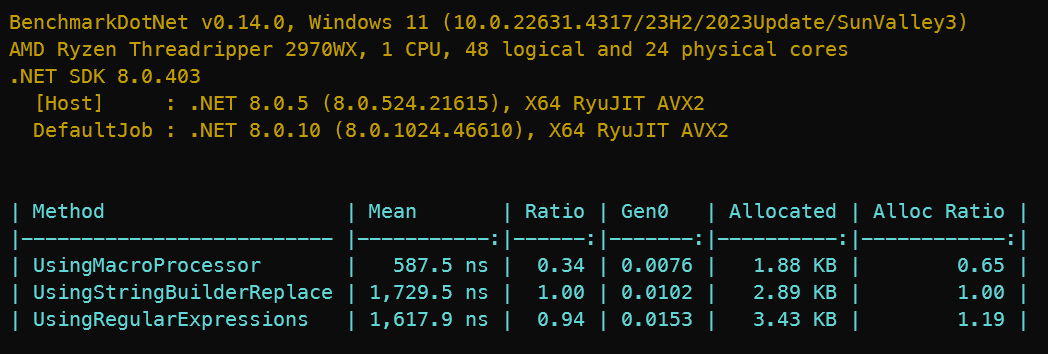
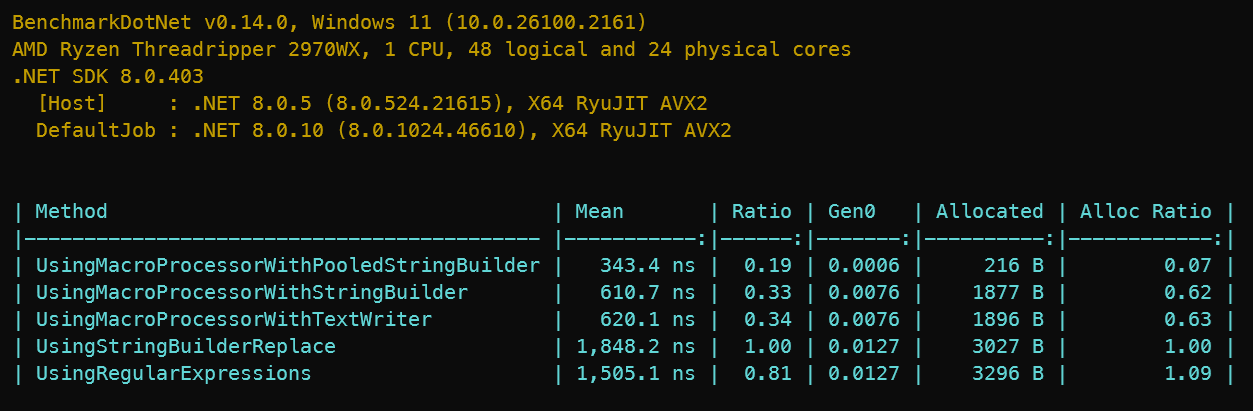
Added MacroProcessor.ProcessMacros overload that takes a StringBuilder
The simplifies usage of pooled StringBuilders for greater performance.

diff --git a/Intercode.Toolbox.TemplateEngine/MacroProcessor.cs b/Intercode.Toolbox.TemplateEngine/MacroProcessor.cs
@@ -5,6 +5,7 @@
 namespace Intercode.Toolbox.TemplateEngine;
 
 using System.Collections.Frozen;
+using System.Text;
 
 /// <summary>
 ///   Processes macros in a template.
@@ -139,6 +140,72 @@ public class MacroProcessor
 
       // The .netstandard2.0 TextWriter.Write method does not have a Span overload.
       writer.Write( segment.Memory.ToString() );
+#endif
+    }
+  }
+
+  /// <summary>
+  ///   Processes macros in a template and writes the result to a <see cref="TextWriter" />.
+  /// </summary>
+  /// <param name="template">The template to process.</param>
+  /// <param name="builder">The <see cref="Stream" /> to write the processed template to.</param>
+  public void ProcessMacros(
+    Template template,
+    StringBuilder builder )
+  {
+    foreach( var segment in template.Segments )
+    {
+      switch( segment.Kind )
+      {
+        case SegmentKind.Macro:
+        {
+          // Unfortunately we cannot use a Span for the macro lookup as Dictionary does not
+          // yet Span lookup support; but .NET 9.0 does.
+          // see https://blog.ndepend.com/alternate-lookup-for-dictionary-and-hashset-in-net-9/
+          var macroName = segment.Text;
+          if( _valueGenerators.TryGetValue( macroName, out var generator ) )
+          {
+            string value;
+
+            try
+            {
+              value = generator( segment.ArgumentMemory.Span );
+            }
+            catch( Exception exception )
+            {
+              value = exception.Message;
+            }
+
+            builder.Append( value );
+          }
+
+          break;
+        }
+
+        case SegmentKind.Delimiter:
+          builder.Append( _options.MacroDelimiter );
+          break;
+
+        case SegmentKind.Constant:
+          WriteConstant( segment );
+          break;
+
+        default:
+          throw new InvalidOperationException( "Unknown segment kind" );
+      }
+    }
+
+    return;
+
+    void WriteConstant(
+      Segment segment )
+    {
+#if NET6_0_OR_GREATER
+      builder.Append( segment.Memory.Span );
+#else
+
+      // The .netstandard2.0 StringBuilder.Append method does not have a Span overload.
+      builder.Append( segment.Memory.ToString() );
 #endif
     }
   }

diff --git a/Intercode.Toolbox.TemplateEngine.Benchmarks/Program.cs b/Intercode.Toolbox.TemplateEngine.Benchmarks/Program.cs
@@ -52,7 +52,29 @@ public partial class MacroProcessingTests
   #region Public Methods
 
   [Benchmark( OperationsPerInvoke = 3 )]
-  public void UsingMacroProcessor()
+  public void UsingMacroProcessorWithPooledStringBuilder()
+  {
+    var builder = StringBuilderPool.Default.Get();
+
+    try
+    {
+      _macroProcessor.ProcessMacros( _template, builder );
+    }
+    finally
+    {
+      StringBuilderPool.Default.Return( builder );
+    }
+  }
+
+  [Benchmark( OperationsPerInvoke = 3 )]
+  public void UsingMacroProcessorWithStringBuilder()
+  {
+    var builder = new StringBuilder();
+    _macroProcessor.ProcessMacros( _template, builder );
+  }
+
+  [Benchmark( OperationsPerInvoke = 3 )]
+  public void UsingMacroProcessorWithTextWriter()
   {
     var writer = new StringWriter();
     _macroProcessor.ProcessMacros( _template, writer );

diff --git a/Intercode.Toolbox.TemplateEngine/README.md b/Intercode.Toolbox.TemplateEngine/README.md
@@ -4,11 +4,17 @@ A fast and simple text templating engine.
 
 ## Updates
 - **Version 2.4** - Added dynamic macro support.
+- **Version 2.4.4** - Added a `MacroProcessor.ProcessMacros` overload that takes a `StringBuilder` instance; the improves performance when using pooled string builders.
 
 ## Table of Contents
 <!--TOC-->
   - [Description](#description)
   - [Processing Macros in Templates: A Quick Guide](#processing-macros-in-templates-a-quick-guide)
+  - [Step-by-Step Guide](#step-by-step-guide)
+    - [1. Create a TemplateCompiler Instance](#1.-create-a-templatecompiler-instance)
+    - [2. Build a MacroProcessor](#2.-build-a-macroprocessor)
+    - [3. Process Macros in the Template](#3.-process-macros-in-the-template)
+  - [Custom Dynamic Macros](#custom-dynamic-macros)
   - [Reference](#reference)
     - [`TemplateEngineOptions` class](#templateengineoptions-class)
       - [Constructor](#constructor)
@@ -24,6 +30,11 @@ A fast and simple text templating engine.
     - [`MacroProcessor` class](#macroprocessor-class)
       - [Methods](#methods)
   - [Benchmarks](#benchmarks)
+    - [Benchmark Setup](#benchmark-setup)
+      - [Template text](#template-text)
+      - [Macro values](#macro-values)
+      - [Benchmark Code](#benchmark-code)
+      - [Benchmark Results](#benchmark-results)
   - [License](#license)
 <!--/TOC-->
 
@@ -396,20 +407,52 @@ Using [BenchmarkDotNet](https://benchmarkdotnet.org/)
 [MemoryDiagnoser]
 public partial class MacroProcessingTests
 {
+  #region Fields
+
   private readonly Template _template;
   private readonly MacroProcessor _macroProcessor;
   private readonly IReadOnlyDictionary<string, string> _macros;
+
+  #endregion
+
+  #region Constructors
 
   public MacroProcessingTests()
   {
     var helper = new TemplateEngineHelper();
     _template = helper.Compile();
     _macroProcessor = helper.CreateMacroProcessor();
-    _macros = _macroProcessor.GetMacros();
+    _macros = helper.Macros;
+  }
+
+  #endregion
+
+  #region Public Methods
+
+  [Benchmark( OperationsPerInvoke = 3 )]
+  public void UsingMacroProcessorWithPooledStringBuilder()
+  {
+    var builder = StringBuilderPool.Default.Get();
+
+    try
+    {
+      _macroProcessor.ProcessMacros( _template, builder );
+    }
+    finally
+    {
+      StringBuilderPool.Default.Return( builder );
+    }
   }
 
   [Benchmark( OperationsPerInvoke = 3 )]
-  public void UsingMacroProcessor()
+  public void UsingMacroProcessorWithStringBuilder()
+  {
+    var builder = new StringBuilder();
+    _macroProcessor.ProcessMacros( _template, builder );
+  }
+
+  [Benchmark( OperationsPerInvoke = 3 )]
+  public void UsingMacroProcessorWithTextWriter()
   {
     var writer = new StringWriter();
     _macroProcessor.ProcessMacros( _template, writer );
@@ -441,8 +484,14 @@ public partial class MacroProcessingTests
       );
   }
 
+  #endregion
+
+  #region Implementation
+
   [GeneratedRegex( @"\$([^$]+)\$" )]
   private static partial Regex CreateMacroNameRegex();
+
+  #endregion
 }
 ```
 
@@ -451,10 +500,11 @@ It is kept in a separate class because we only want to measure the actual macro 
 
 #### Benchmark Results
 
-As the results indicate, the `MacroProcessor` demonstrates significantly 
-faster performance and lower memory allocation compared to the `StringBuilder` and `Regex` implementations.
+As the results indicate, the `MacroProcessor` demonstrates significantly faster performance and lower memory allocation compared to 
+the `StringBuilder` and `Regex` implementations. This performance increase is more dramatic when using a pooled `StringBuilder` as memory
+allocations are reduced to a fraction of the other methods.
 
-![Results](https://raw.githubusercontent.com/eddievelasquez/IntercodeToolbox/refs/heads/main/Intercode.Toolbox.TemplateEngine/BenchmarkResults.png)
+![Results](https://raw.githubusercontent.com/eddievelasquez/IntercodeToolbox/839271e69b927451143777263ca6b6336c5155b5/Intercode.Toolbox.TemplateEngine/BenchmarkResults.png)
 
 ---
 
